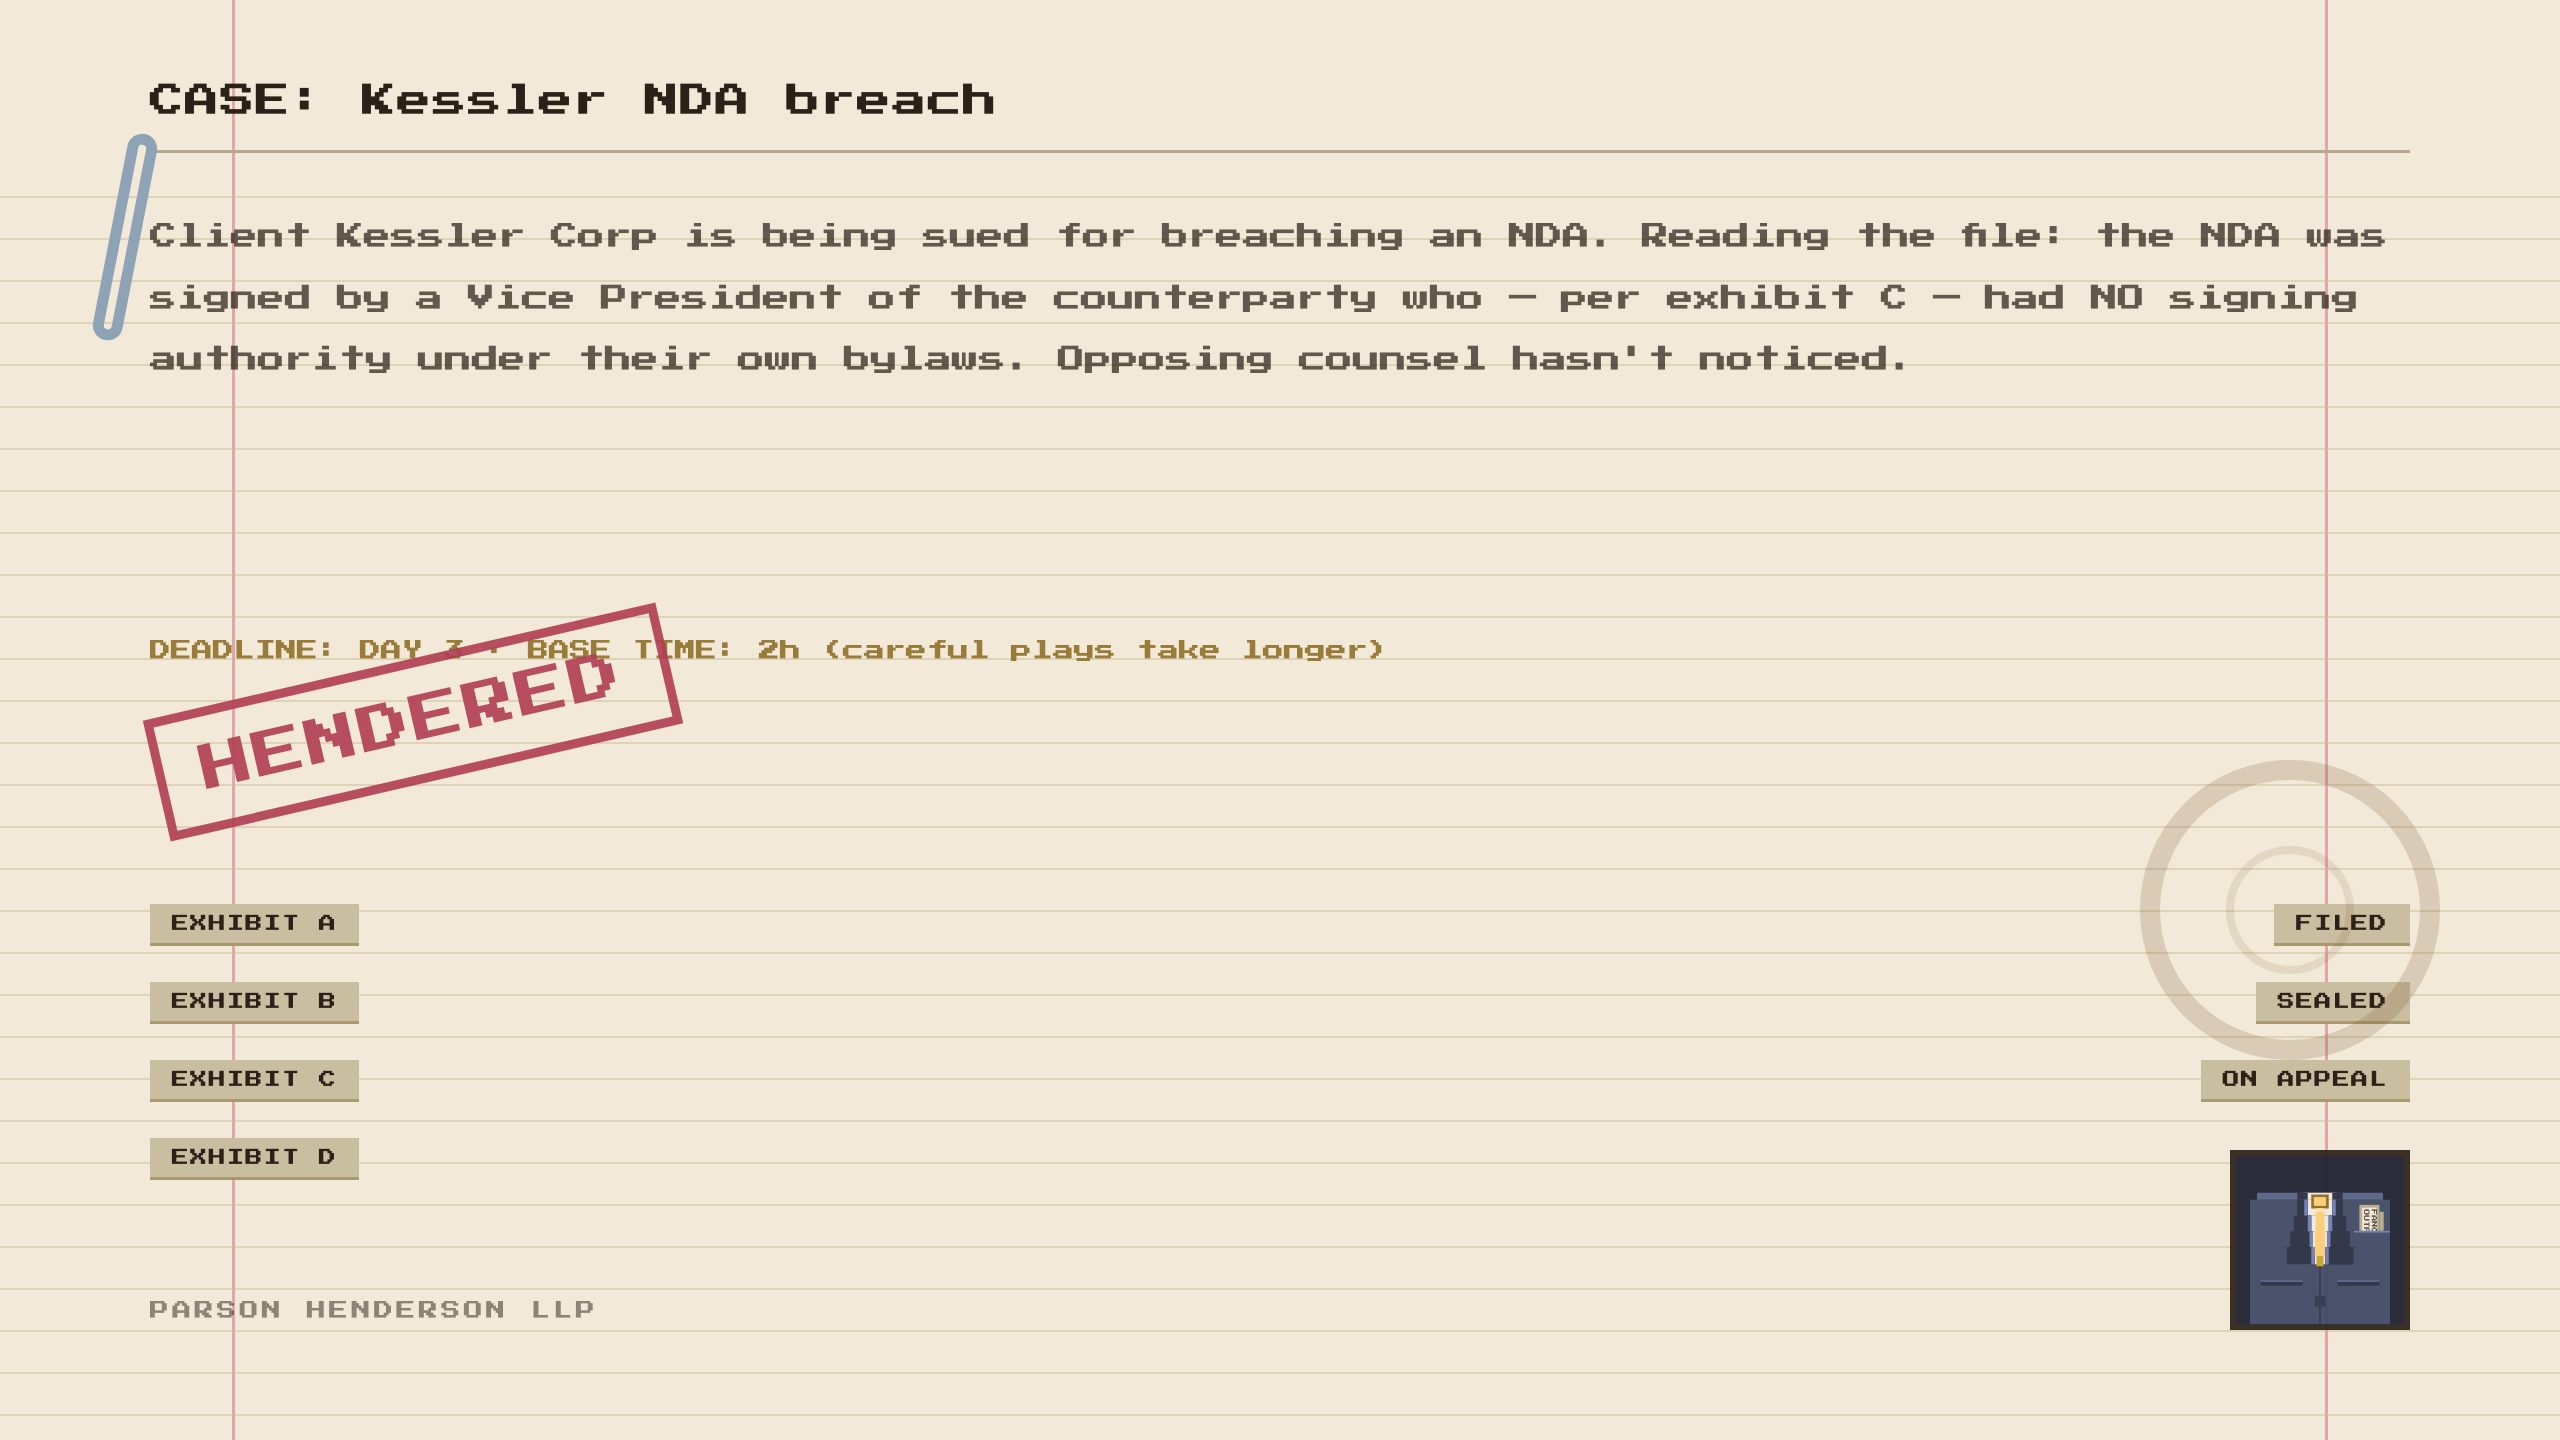
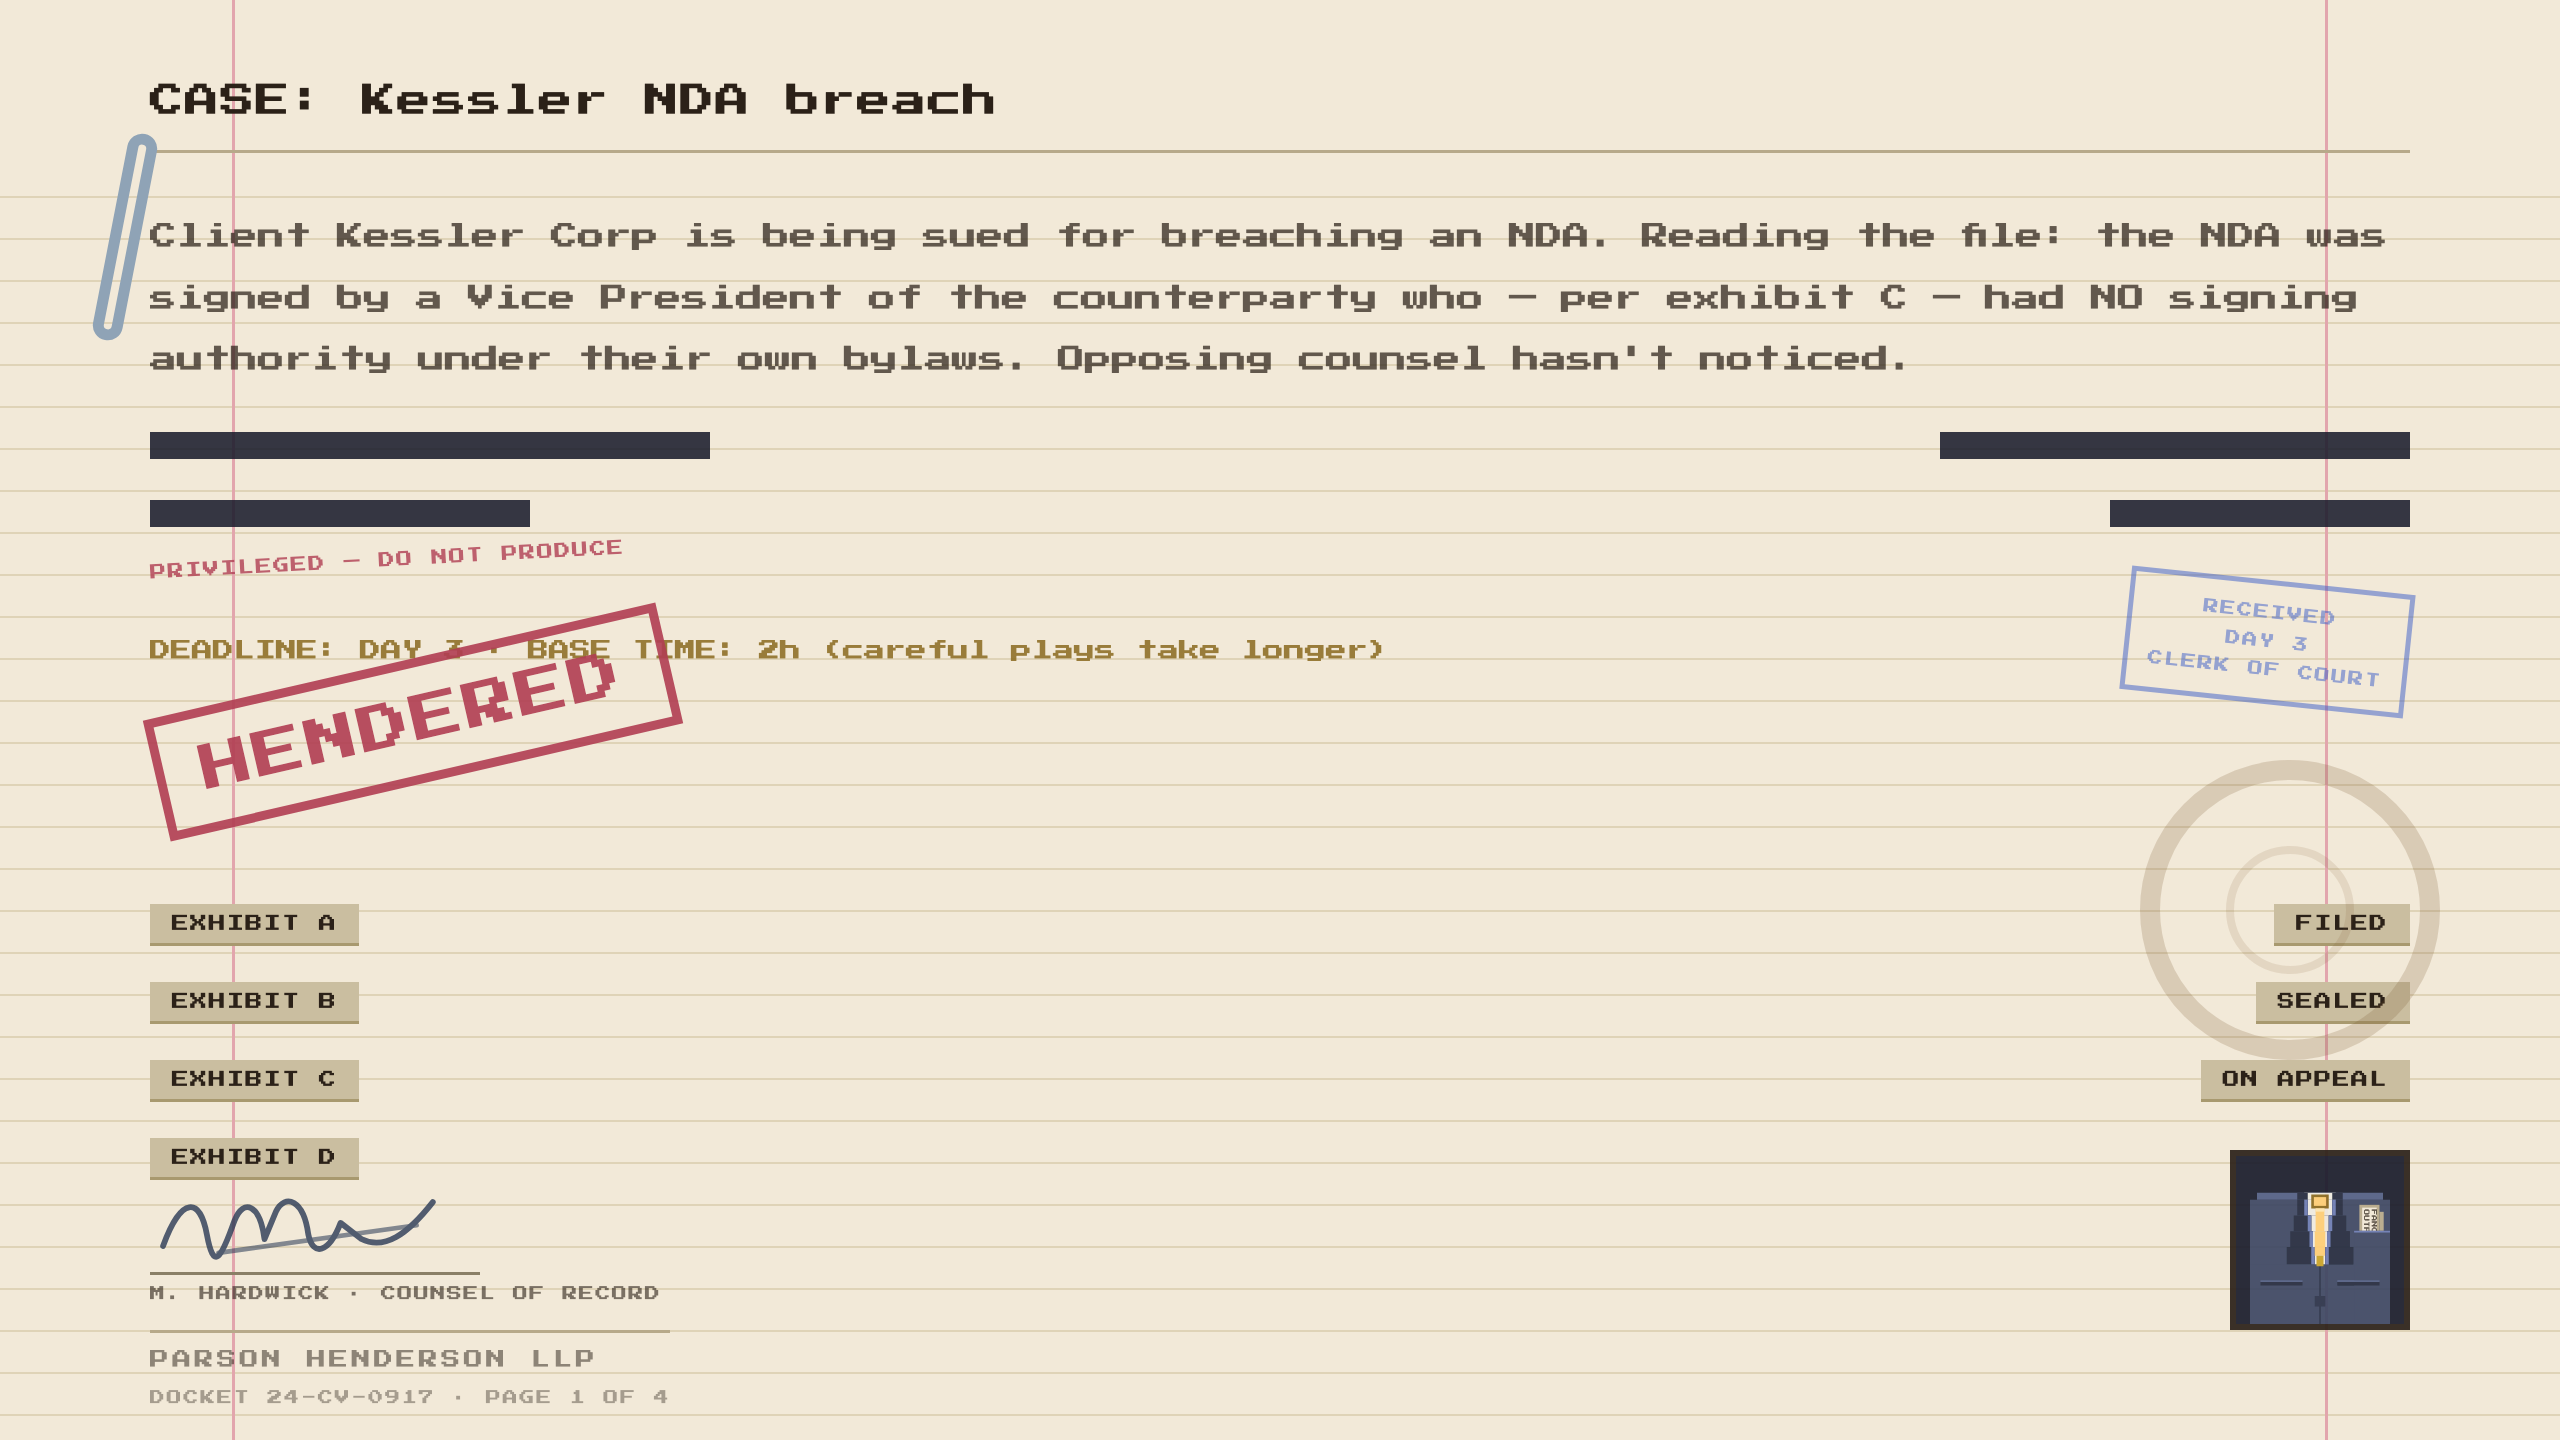
store: finish the bottom of the blotter
The page stopped halfway. Under the exhibit tabs was bare paper, and the right
gutter had nothing between the redactions and the coffee ring, so the file read
as an unfinished draft rather than a document.

A file ends the way a file ends: somebody signs it, a rule closes it, it gets a
number. The paraph is the one smooth stroke on a page of pixels, which is the
contrast a real case file has — machine type above, one human hand below.

The middle gets redaction bars, which the column cuts in half, so both gutters
are left holding the end of a line somebody decided you could not read. That is
the game's own board, on the game's own background.

diff --git a/DEV_LOGBOOK.md b/DEV_LOGBOOK.md
@@ -45,7 +45,7 @@ küçük kalır.
 | Dosya | Döngü | Boyut | (statik PNG) |
 | --- | --- | --- | --- |
 | `04-filing-cabinet.gif` | 2.16 sn / 18 kare | 530 KB | 166 KB |
-| `05-blotter.gif` | 3.04 sn / 12 kare | 178 KB | 87 KB |
+| `05-blotter.gif` | 3.04 sn / 12 kare | 192 KB | 120 KB |
 
 05 döngüsünün 2.6 saniyesi tek bir tutulan kare — bedava. Kare süreleri **0.04sn
 ızgarasına** oturtuldu: concat demuxer görüntüleri GIF muxer'ına 25fps'te veriyor,
@@ -54,6 +54,19 @@ küçük kalır.
 
 Komutlar: `node scripts/store-backgrounds.mjs` (statikler), `--animate` (GIF'ler).
 Detay ve itch alan ayarları `assets/store/ITCH.md` › *Page background*.
+
+### Blotter seçildi, sayfası dolduruldu
+
+Kullanıcı 05'i seçti. Alt yarısı boştu: sergi etiketlerinin altında hiçbir şey yoktu ve
+sağ oluk redaksiyonlarla kahve halkası arasında boştu. Dosya bir dosya gibi kapanıyor
+artık — altında imza (sayfanın tek pürüzsüz çizgisi, geri kalan her şey piksel), künye
+çizgisi, firma adı ve dosya numarası. Ortaya redaksiyon barları girdi: sütun her barın
+ortasını kapattığı için iki oluk da birinin okumana izin vermediği bir satırın ucunu
+tutuyor. Sağ oluğa mahkeme kalemi mührü.
+
+itch teması da kuruldu (`scripts/store-itch-theme.mjs`): canlı sayfa **fabrika
+temasındaydı**, tek renk değişmemişti — kendi CSS'inden doğrulandı. Blotter krem
+olduğu için içerik sütunu koyulaştırılmalı, itch bunu ayrı bir alan olarak veriyor.
 
 ### Sıradaki kesin adım
 

diff --git a/assets/store/ITCH.md b/assets/store/ITCH.md
@@ -51,7 +51,7 @@ the still PNG is.
 | File | Loop | Size | What moves |
 | --- | --- | --- | --- |
 | `04-filing-cabinet.gif` | 2.16s, 18 frames | 530 KB | the sheets spilling out of the two open drawers, in a draught |
-| `05-blotter.gif` | 3.04s, 12 frames | 178 KB | the HENDERED stamp lifts and comes down again, once per loop |
+| `05-blotter.gif` | 3.04s, 12 frames | 192 KB | the HENDERED stamp lifts and comes down again, once per loop |
 
 **Why the motion is that small.** itch takes one image for the page background, so an
 animation has to be a GIF, and there file size is the design. A frame that moves all
